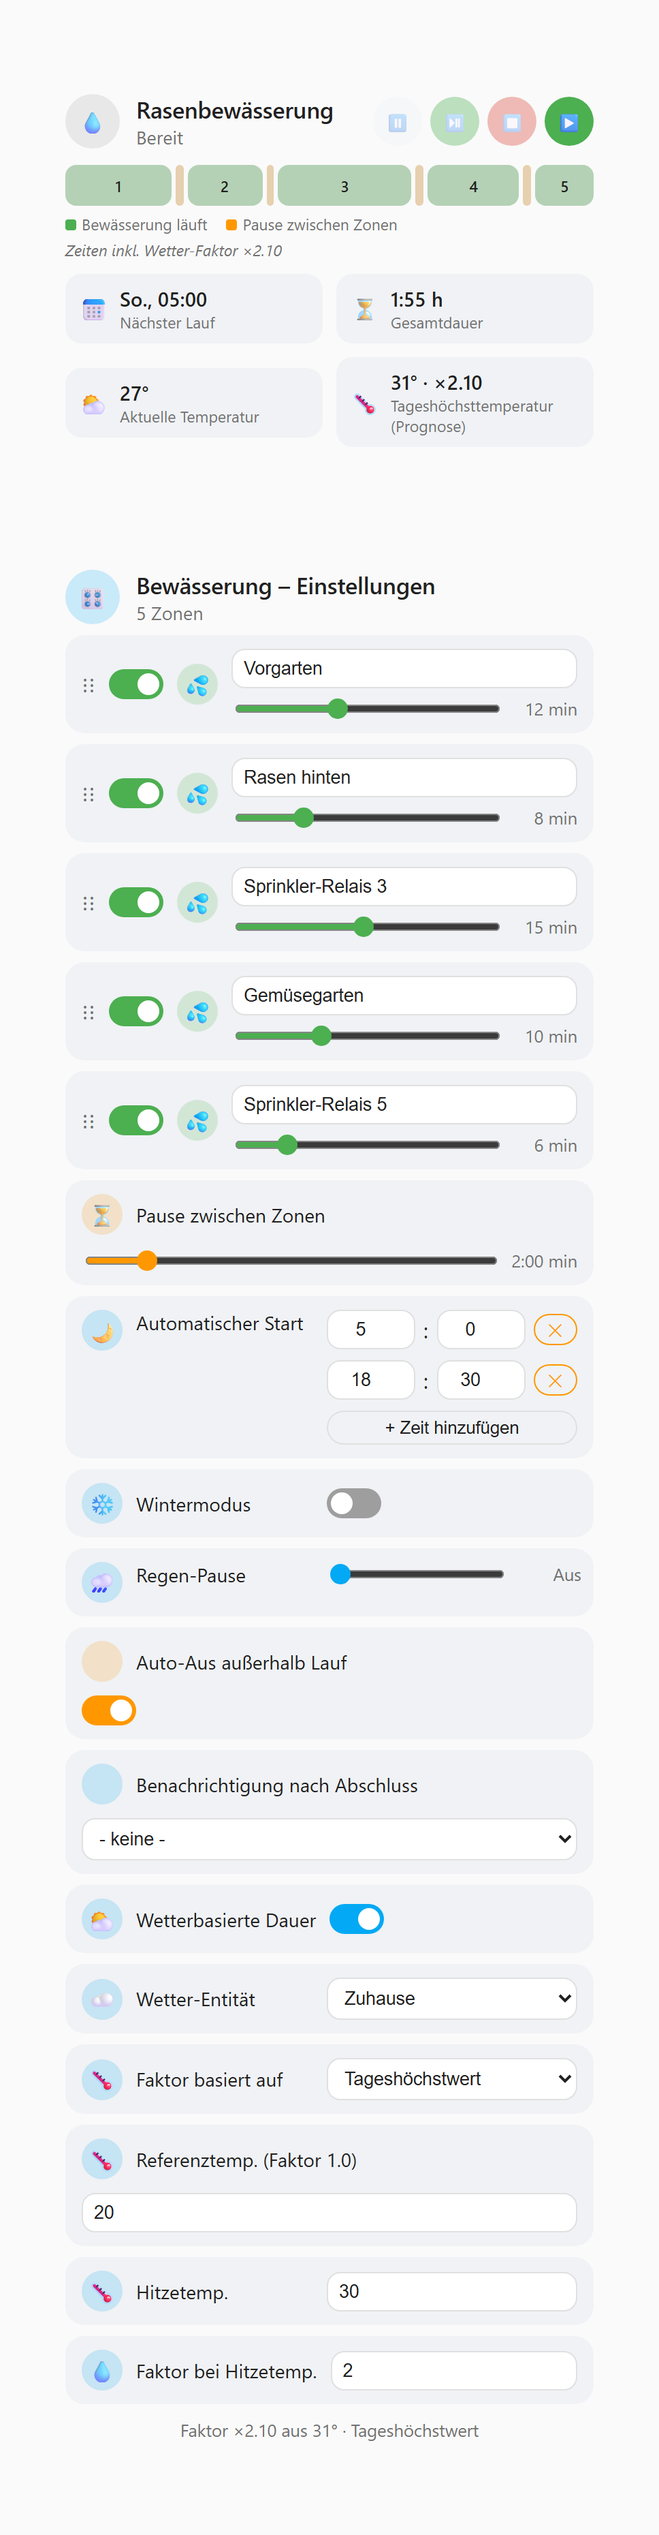
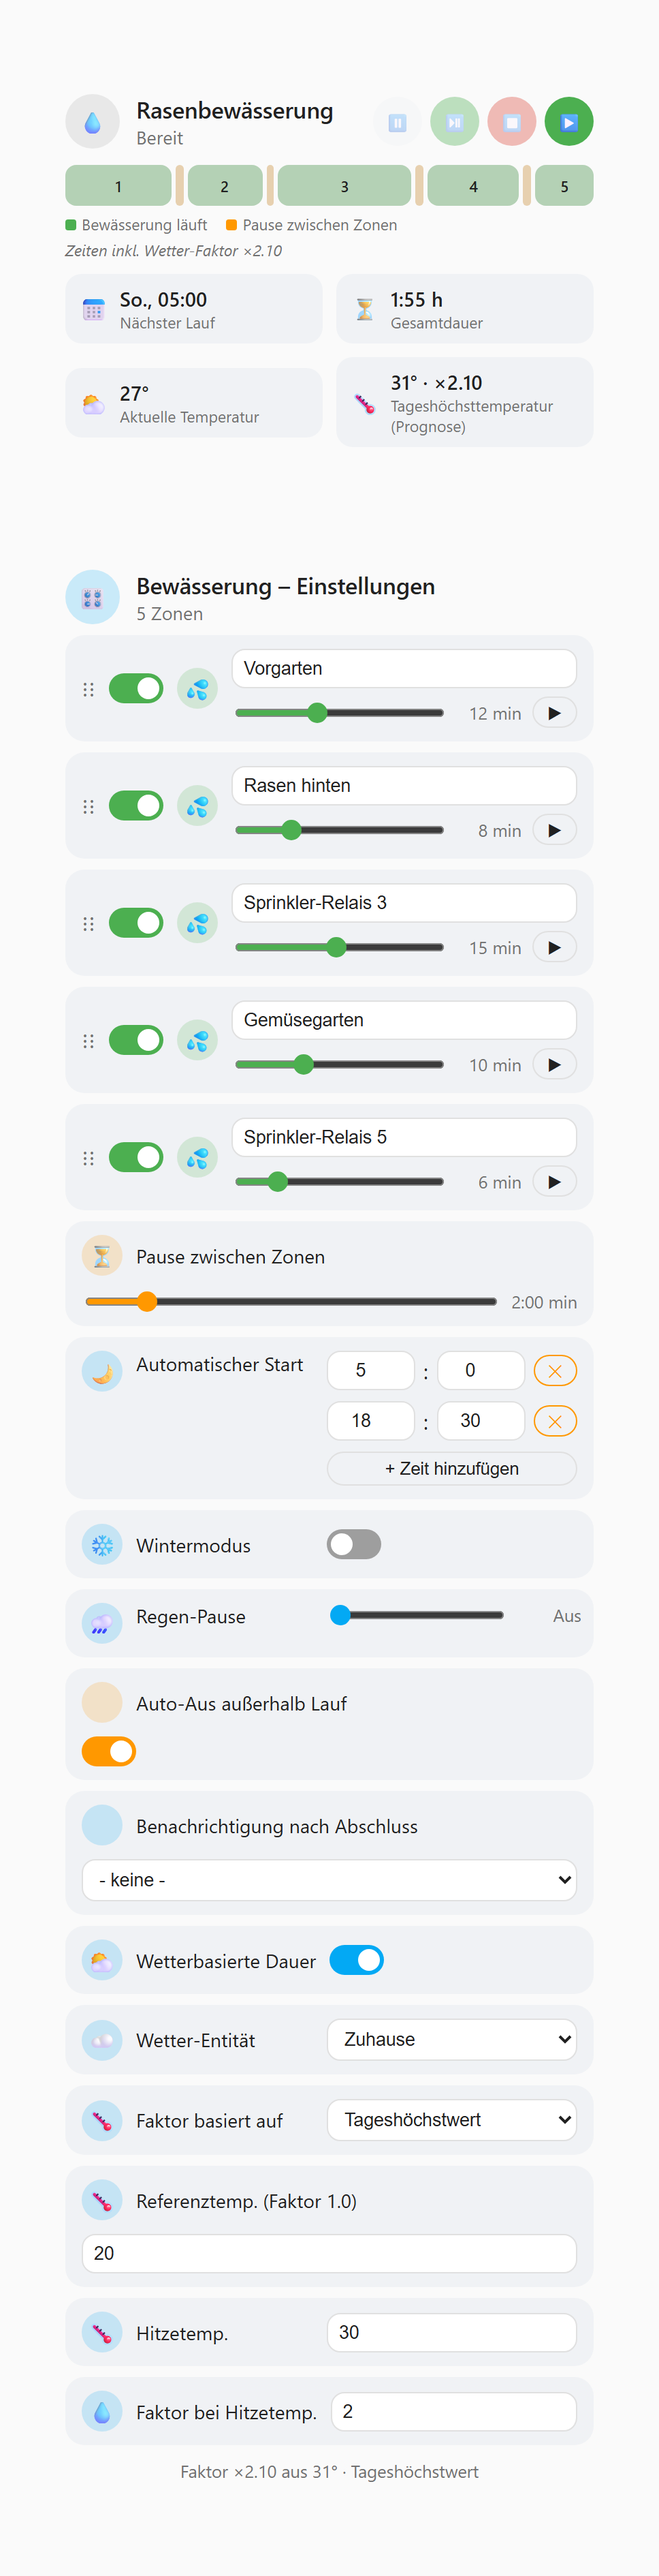
Docs (EN/DE), changelog and screenshots for v1.7.0 (#70, #74)

diff --git a/custom_components/irrigation_sequencer/frontend/irrigation-sequencer-card.js b/custom_components/irrigation_sequencer/frontend/irrigation-sequencer-card.js
@@ -22,7 +22,7 @@ const DEFAULT_ZONE_DURATION_MINUTES = 10;
 // browser console, whether an update actually took effect versus just
 // looking "the same" as before. Keep this in step with manifest.json's
 // "version" on every release.
-const CARD_VERSION = "1.6.1";
+const CARD_VERSION = "1.7.0";
 // eslint-disable-next-line no-console
 console.info(
   `%c IRRIGATION-SEQUENCER-CARD %c v${CARD_VERSION} `,

diff --git a/README.de.md b/README.de.md
@@ -35,6 +35,14 @@ im Browser ausprobieren kannst.*
   für breite Dashboard-Spalten
 - **Eigene Zonen-Namen** – jedes Ventil/jede Steckdose kann einen eigenen
   Anzeigenamen bekommen, unabhängig vom Namen der zugrunde liegenden Entität
+- **Zonen aktivieren/deaktivieren** – eine Zone temporär aus der Sequenz
+  nehmen (z. B. ein Beet, das gerade kein Wasser braucht), ohne sie zu
+  entfernen – Schalter pro Zone in der Settings-Card oder
+  `irrigation_sequencer.set_zone_enabled`
+- **Einzelzonen-Testlauf** – eine Zone einmal zum Testen laufen lassen
+  (z. B. neuer Sprinklerkopf) über den ▶-Button in ihrer
+  Settings-Card-Zeile oder `irrigation_sequencer.run_zone` – immer exakt
+  die gewünschte Zeit, ohne Wetter-Faktor
 - **Sequenz mit fester Reihenfolge** – jede Zone wird nacheinander bewässert,
   die Reihenfolge lässt sich in der Settings-Card per Drag & Drop ändern
 - **Individuelle Dauer pro Zone** – jede Zone hat ihre eigene Bewässerungsdauer (Minuten)
@@ -221,13 +229,15 @@ Nur die *anfängliche* Zonen-Auswahl ist ein klassischer "Einrichtungsdialog"
   Optionen-Dialog, in dem du die 1–10 Ventil-/Steckdosen-Entitäten jederzeit
   neu auswählen kannst. Zonen, die ausgewählt bleiben, behalten ihren Namen,
   ihre Dauer und Position; neu hinzugefügte Zonen bekommen Standardwerte.
-- **Zonen-Namen, -Reihenfolge, -Dauer, Wintermodus, Regen-Pause, Nachtstart,
-  Pause zwischen Zonen, Wetter-Anpassung**: das sind keine
+- **Zonen-Namen, -Reihenfolge, -Dauer, -Schalter (aktiv/inaktiv), Wintermodus,
+  Regen-Pause, Nachtstart, Pause zwischen Zonen, Wetter-Anpassung**: das sind keine
   Dialog-Einstellungen, sondern Live-Werte, die du direkt über die
   Settings-Card änderst (empfohlen), über die bereitgestellten Entitäten
   `switch.*_winter_mode` / `switch.*_weather_adjustment`, oder über die
   Services unten (praktisch für eigene Automationen, z. B. "Wintermodus jedes
-  Jahr am 1. November aktivieren").
+  Jahr am 1. November aktivieren"). Der ▶-Button in einer
+  Settings-Card-Zonen-Zeile (oder `run_zone`) lässt nur diese Zone einmal
+  zum Testen laufen.
 
 ## Dienste (Services)
 
@@ -243,6 +253,8 @@ eigene Automationen:
 | `irrigation_sequencer.set_zone_order` | Reihenfolge der Zonen festlegen |
 | `irrigation_sequencer.set_zone_name` | Eigenen Anzeigenamen für eine Zone setzen |
 | `irrigation_sequencer.set_zone_duration` | Bewässerungsdauer einer Zone setzen |
+| `irrigation_sequencer.set_zone_enabled` | Zone in die Sequenz aufnehmen/ausschließen (ab dem nächsten Lauf) |
+| `irrigation_sequencer.run_zone` | Einzelne Zone einmal zum Testen laufen lassen (ohne Wetter-Faktor) |
 | `irrigation_sequencer.set_pause_between_zones` | Pause zwischen Zonen setzen |
 | `irrigation_sequencer.set_start_times` | Tägliche Startzeiten setzen (1–3) |
 | `irrigation_sequencer.set_rain_pause` | Regen-Pause für 1–24 Tage setzen |

diff --git a/README.md b/README.md
@@ -31,6 +31,13 @@ Home Assistant instance.*
   arrangement and a wide, short one for wide dashboard columns
 - **Custom zone names** - give each valve/plug its own display name,
   independent of the underlying entity name
+- **Enable/disable zones** - temporarily exclude a zone from the sequence
+  (e.g. a bed that needs no water right now) without removing it - per-zone
+  toggle in the settings card or `irrigation_sequencer.set_zone_enabled`
+- **Single-zone test run** - run one zone once to test it (e.g. a new
+  sprinkler head) via the ▶ button on its settings-card row or
+  `irrigation_sequencer.run_zone` - always exactly the requested time,
+  weather factor never applied
 - **Sequential order** - each zone is irrigated one after another; the order
   can be changed by drag & drop directly in the settings card
 - **Per-zone duration** - every zone has its own irrigation duration (minutes)
@@ -201,12 +208,14 @@ else is a live setting, not a one-time config step:
   can re-select the 1-10 valve/plug entities at any time. Zones that stay
   selected keep their configured name, duration and position; newly added
   zones get default values.
-- **Zone names, order, durations, winter mode, rain pause, night start, pause
+- **Zone names, order, durations, enabled toggles, winter mode, rain pause, night start, pause
   between zones, weather adjustment**: these are not part of a config dialog
   at all - they are live settings you change directly through the settings
   card (recommended), through the exposed `switch.*_winter_mode` /
   `switch.*_weather_adjustment` entities, or via the services below (handy
   for your own automations, e.g. "turn on winter mode every November 1st").
+  The ▶ button on a zone's settings-card row (or `run_zone`) runs just that
+  zone once for testing.
 
 ## Services
 
@@ -222,6 +231,8 @@ automations:
 | `irrigation_sequencer.set_zone_order` | Set the irrigation order of the zones |
 | `irrigation_sequencer.set_zone_name` | Set a custom display name for a zone |
 | `irrigation_sequencer.set_zone_duration` | Set the irrigation duration of a zone |
+| `irrigation_sequencer.set_zone_enabled` | Include/exclude a zone from the sequence (from the next run) |
+| `irrigation_sequencer.run_zone` | Run a single zone once for testing (no weather factor) |
 | `irrigation_sequencer.set_pause_between_zones` | Set the pause between zones |
 | `irrigation_sequencer.set_start_times` | Set the daily start times (1-3) |
 | `irrigation_sequencer.set_rain_pause` | Pause irrigation for 1-24 days |

diff --git a/CHANGELOG.md b/CHANGELOG.md
@@ -5,6 +5,25 @@ All notable changes to this project are documented here. Versioning follows
 `custom_components/irrigation_sequencer/manifest.json` and tagged as a
 GitHub release (`vX.Y.Z`) once pushed.
 
+## [1.7.0] - 2026-10-03
+
+- **Per-zone enable/disable** (fixes
+  [#70](https://github.com/ReneSattler/ha-irrigation-sequencer/issues/70)):
+  zones carry an `enabled` flag (on by default, migrated for existing
+  configs) - a disabled zone is never opened and contributes no time to
+  any estimate, total or countdown, including the start-time overlap
+  check. New `irrigation_sequencer.set_zone_enabled` service, one toggle
+  per zone row in the settings card ("n of m zones" hint), and the status
+  timeline shows enabled zones only. Membership is frozen at run start;
+  duration edits still apply live.
+- **Single-zone test run** (fixes
+  [#74](https://github.com/ReneSattler/ha-irrigation-sequencer/issues/74)):
+  new `irrigation_sequencer.run_zone` service (zone + optional minutes)
+  and a ▶ test button on every settings-card zone row. Runs exactly the
+  requested time - the weather factor is never applied - recorded in
+  `last_run_zones` as a test run, with working pause/stop, refused while
+  a sequence owns the valves, and no completion notification.
+
 ## [1.6.1] - 2026-10-03
 
 - Fixed: the resume button used the same `mdi:play` icon as the start
